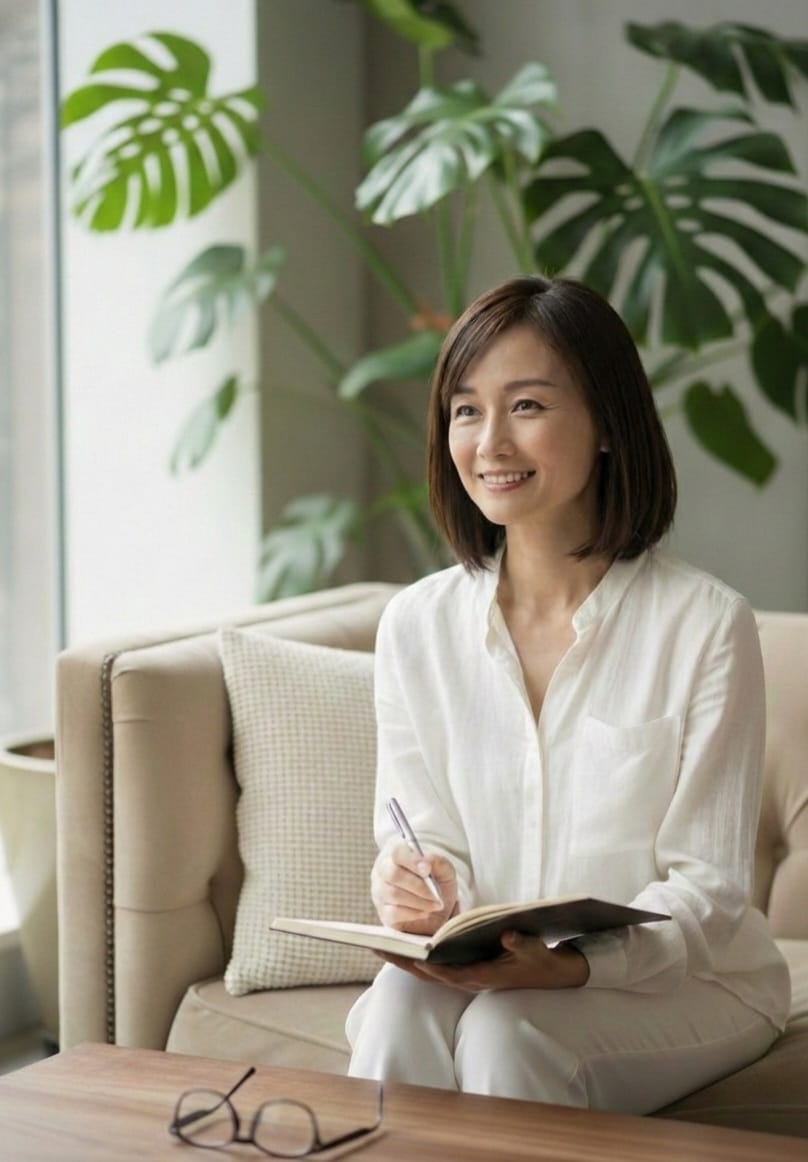
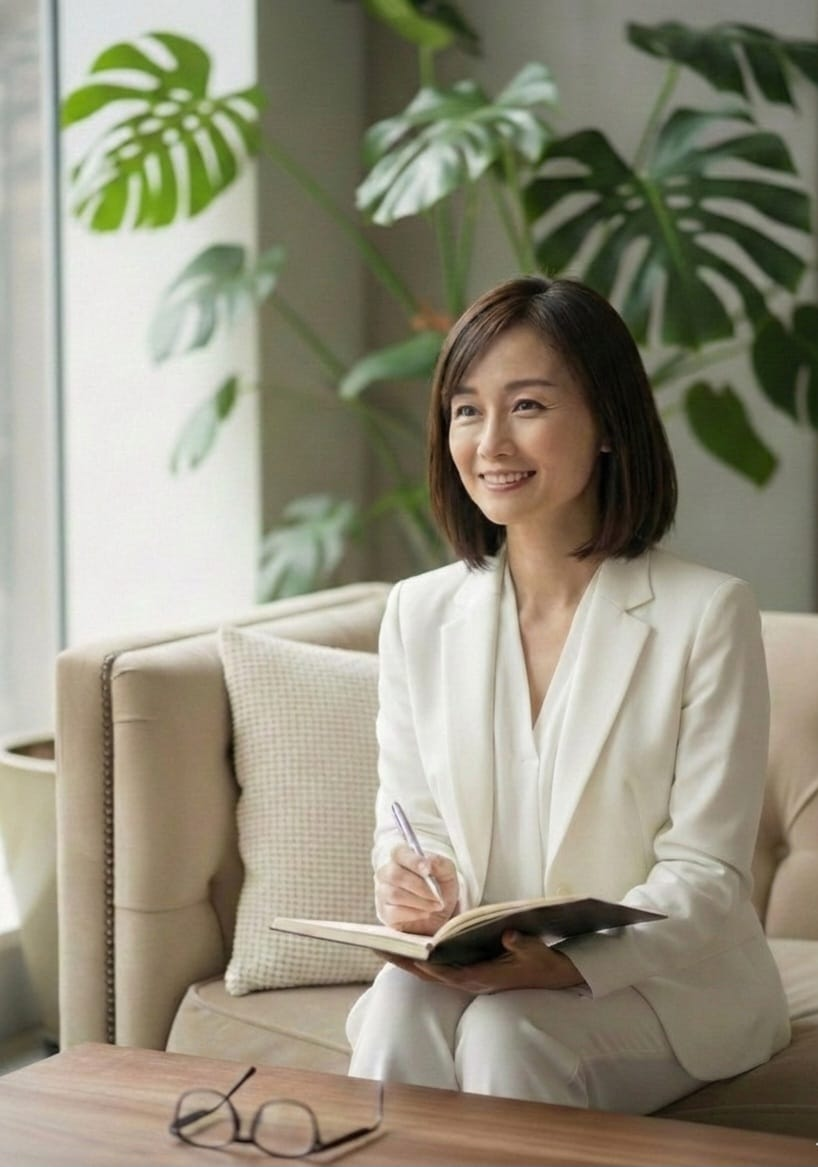
Ai Chan: update public/executive-coaching.html, public/images/nami-suit.jpg

diff --git a/public/executive-coaching.html b/public/executive-coaching.html
@@ -822,7 +822,7 @@ footer {
       </div>
     </div>
     <div class="page-hero-image reveal reveal-delay-2">
-      <img src="/images/nami-suit.jpg?v=20260226d" alt="ナミ・バーデン — エグゼクティブコーチ">
+      <img src="/images/nami-suit.jpg?v=20260226e" alt="ナミ・バーデン — エグゼクティブコーチ">
       <div class="hero-img-decoration"></div>
     </div>
   </div>
